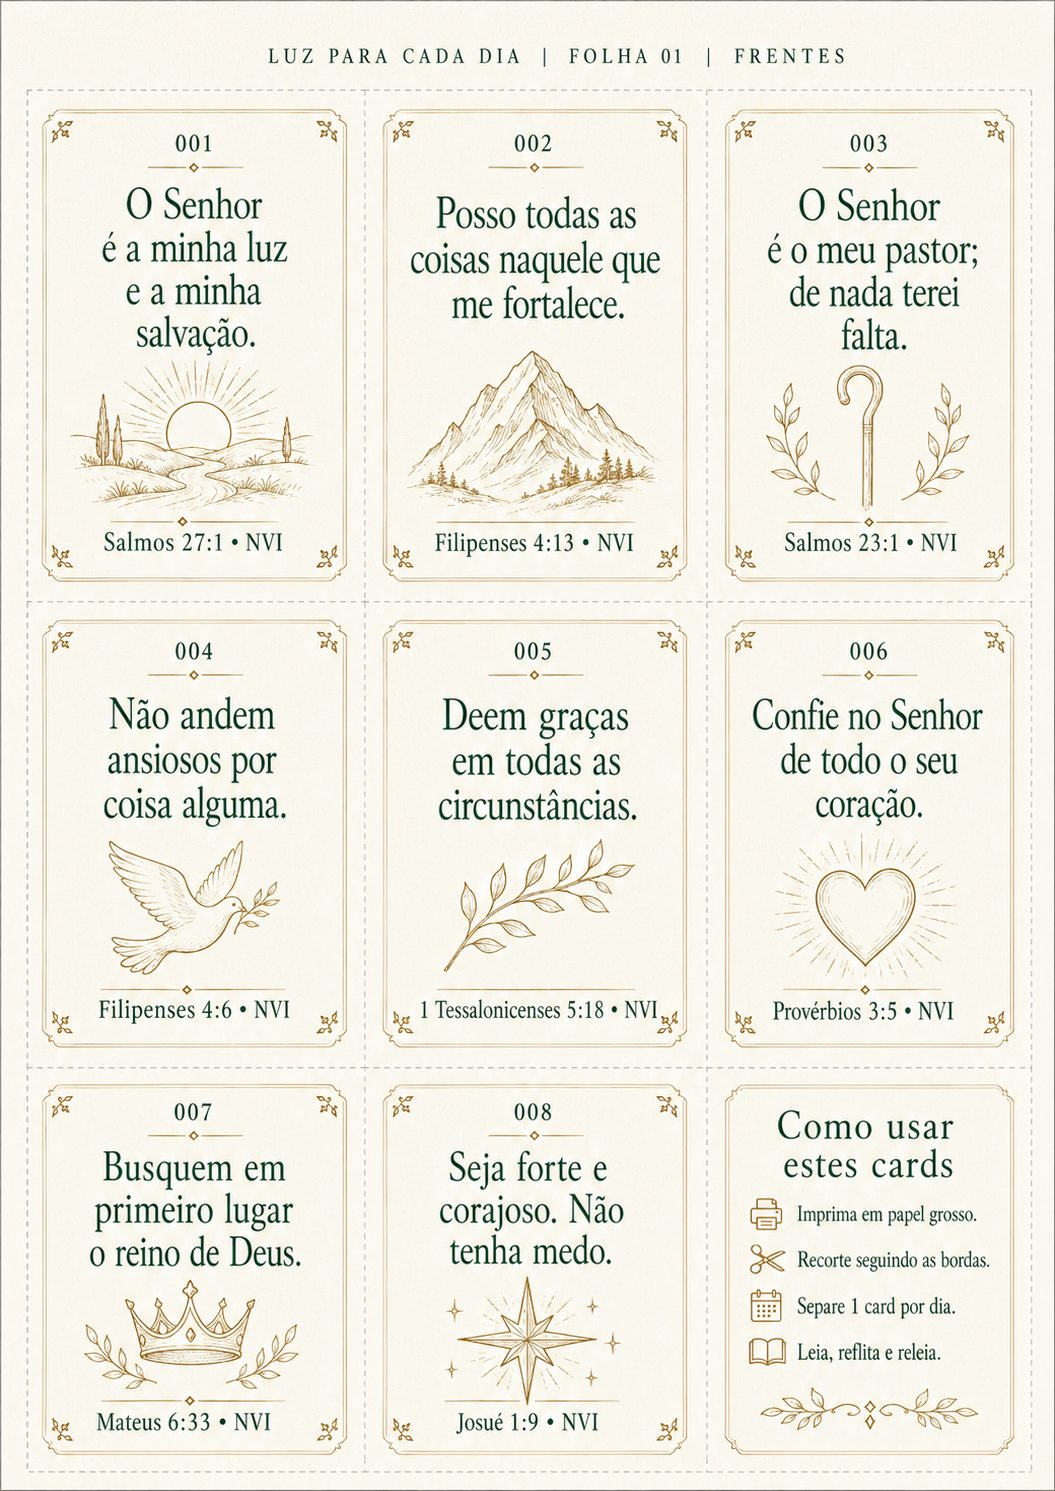
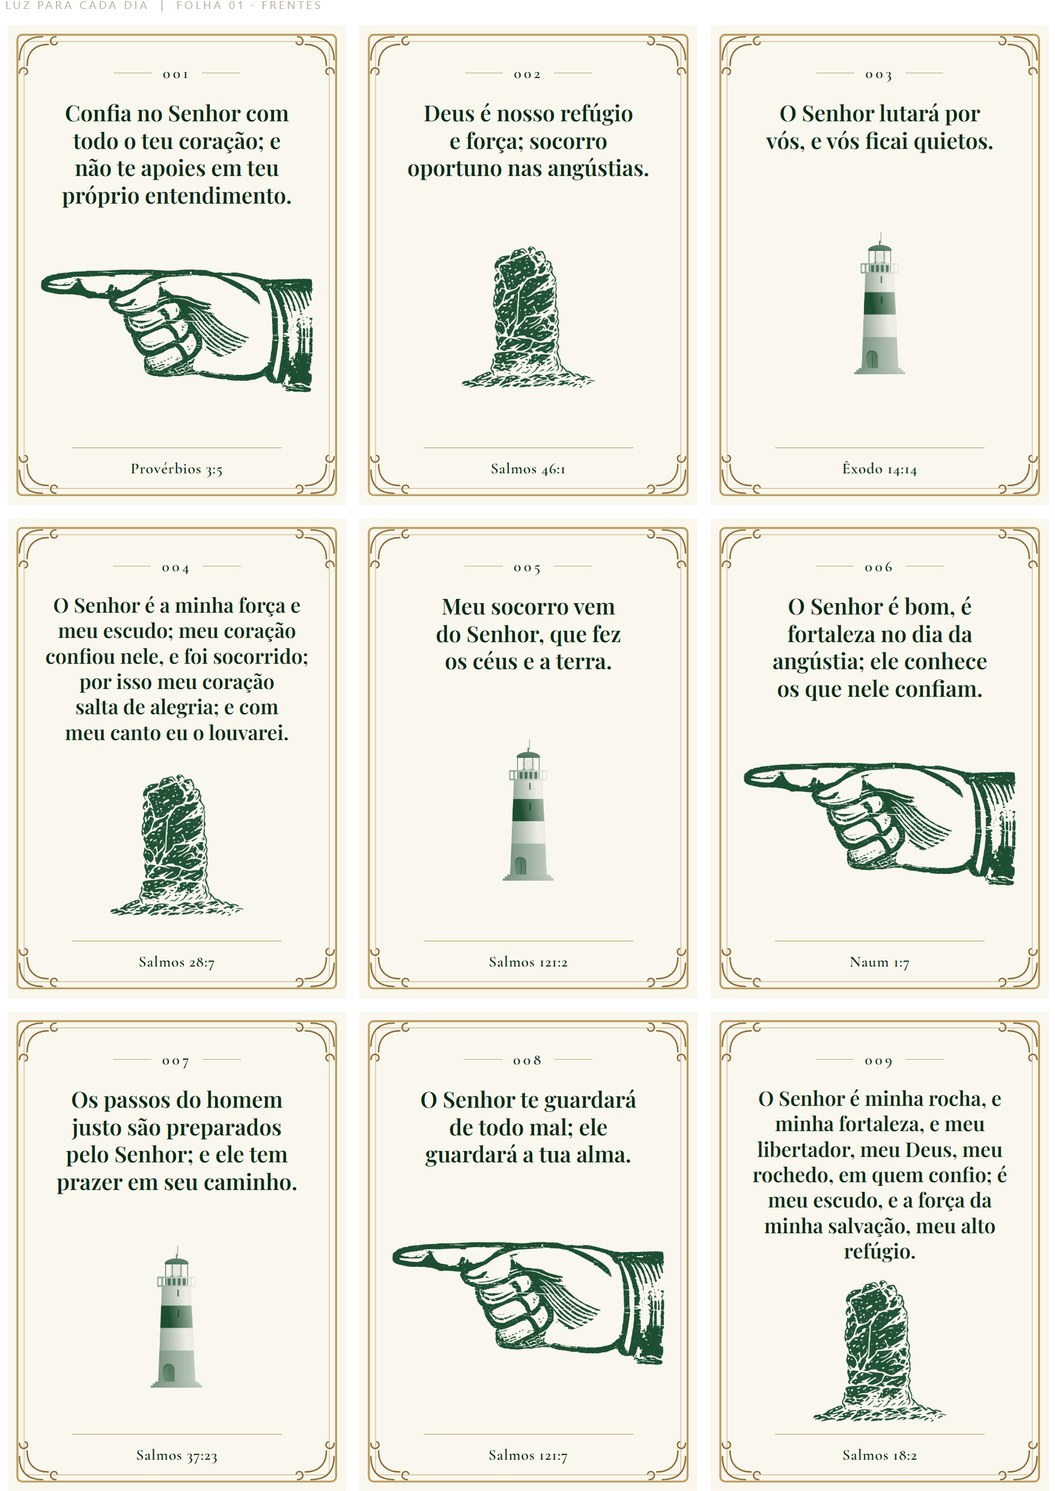
fix: substituir fotos do produto pelas folhas reais do baralho de 365 cards

Changed region(s): [[0.0, 0.0, 1.0, 1.0]]

diff --git a/index.html b/index.html
@@ -344,7 +344,7 @@
 
     <div class="mockup">
       <img class="sheet-img" src="img/folha-01.jpg" width="1055" height="1491" fetchpriority="high"
-           alt="Folha 01 da coleção Luz para Cada Dia, com nove cards ilustrados de versículos prontos para recortar">
+           alt="Folha 01 da coleção Luz para Cada Dia: nove cards com o versículo completo e gravura, prontos para recortar">
       <div class="mock-badge"><b>365</b>cards</div>
     </div>
     <p class="img-caption">Folha 01 — nove cards por página, já ilustrados e com marcas de corte.</p>
@@ -463,33 +463,33 @@
     <div class="rail" id="rail" tabindex="0" role="group" aria-label="Carrossel de folhas da coleção">
       <figure class="vsheet">
         <img class="sheet-img" src="img/folha-01.jpg" width="1055" height="1491" loading="lazy"
-             alt="Folha 01 da coleção com os cards 001 a 008 e o card de instruções">
-        <figcaption>Folha 01</figcaption>
+             alt="Folha 01 com os cards 001 a 009, do mês da confiança">
+        <figcaption>Janeiro &mdash; confiança</figcaption>
       </figure>
       <figure class="vsheet">
         <img class="sheet-img" src="img/folha-06.jpg" width="1055" height="1491" loading="lazy"
-             alt="Folha da coleção com cards de bênção e confiança">
-        <figcaption>Folha 06</figcaption>
+             alt="Folha 06 com os cards 046 a 054, do mês do amor">
+        <figcaption>Fevereiro &mdash; amor</figcaption>
       </figure>
       <figure class="vsheet">
         <img class="sheet-img" src="img/folha-09.jpg" width="1055" height="1491" loading="lazy"
-             alt="Folha da coleção com cards sobre descanso e paz">
-        <figcaption>Folha 09</figcaption>
+             alt="Folha 09 com os cards 073 a 081, do mês da fé">
+        <figcaption>Março &mdash; fé</figcaption>
       </figure>
       <figure class="vsheet">
-        <img class="sheet-img" src="img/v2-folha-01.jpg" width="1055" height="1491" loading="lazy"
-             alt="Folha da coleção com pão e cálice, porta luminosa, fonte, nó de corda, tenda, árvore frutífera, pergaminho aberto e ramo sobre a água">
-        <figcaption>Pão, fonte e tenda</figcaption>
+        <img class="sheet-img" src="img/folha-12.jpg" width="1055" height="1491" loading="lazy"
+             alt="Folha 12 com os cards 100 a 108, do mês da graça, ilustrados com cálice, cordeiro e sol gravado">
+        <figcaption>Abril &mdash; graça</figcaption>
       </figure>
       <figure class="vsheet">
-        <img class="sheet-img" src="img/v2-folha-06.jpg" width="1055" height="1491" loading="lazy"
-             alt="Folha da coleção com cards sobre esperança e humildade">
-        <figcaption>Esperança e humildade</figcaption>
+        <img class="sheet-img" src="img/folha-20.jpg" width="1055" height="1491" loading="lazy"
+             alt="Folha 20 com os cards 172 a 180, do mês da coragem">
+        <figcaption>Junho &mdash; coragem</figcaption>
       </figure>
       <figure class="vsheet">
-        <img class="sheet-img" src="img/v2-folha-12.jpg" width="1055" height="1491" loading="lazy"
-             alt="Folha da coleção com harpa, caminho ao amanhecer, livro aberto com coração, coração entre ramos de louro, árvore brotando de mãos abertas, bíblia aberta, pomba com ramo, mãos acolhendo e vereda ao amanhecer">
-        <figcaption>Harpa e caminho ao amanhecer</figcaption>
+        <img class="sheet-img" src="img/folha-33.jpg" width="1055" height="1491" loading="lazy"
+             alt="Folha 33 com os cards 289 a 297, do mês da gratidão, ilustrados com harpa, sino e ramos">
+        <figcaption>Outubro &mdash; gratidão</figcaption>
       </figure>
     </div>
 
@@ -518,9 +518,9 @@
         <figcaption>A frente &mdash; nove versículos ilustrados</figcaption>
       </figure>
       <figure class="sheet-fig">
-        <img class="sheet-img" src="img/verso-v1.jpg" width="1055" height="1491" loading="lazy"
-             alt="Verso da folha, com o ramo de oliveira e a marca Luz para Cada Dia">
-        <figcaption>O verso &mdash; ramo de oliveira e a marca</figcaption>
+        <img class="sheet-img" src="img/verso.jpg" width="1055" height="1491" loading="lazy"
+             alt="Verso da folha, com a samambaia gravada e a marca Luz para Cada Dia">
+        <figcaption>O verso &mdash; samambaia gravada e a marca</figcaption>
       </figure>
     </div>
   </div>
@@ -628,9 +628,9 @@
     <p class="sec-sub">Pagamento único. Sem assinatura, sem renovação, sem cobrança no mês seguinte.</p>
 
     <div class="stack" aria-label="As folhas que compõem a coleção completa">
-      <img src="img/v2-folha-06.jpg" width="1055" height="1491" loading="lazy" alt="Folha da coleção">
+      <img src="img/folha-20.jpg" width="1055" height="1491" loading="lazy" alt="Folha do mês da coragem">
       <img src="img/folha-01.jpg" width="1055" height="1491" loading="lazy" alt="Folha da coleção">
-      <img src="img/v2-folha-12.jpg" width="1055" height="1491" loading="lazy" alt="Outra folha da coleção">
+      <img src="img/folha-33.jpg" width="1055" height="1491" loading="lazy" alt="Outra folha da coleção">
     </div>
 
     <div class="offer-band">
